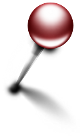
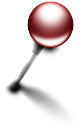
Final graph: added user marker on highlight spot

diff --git a/vsq/static/js/risposteUtente.js b/vsq/static/js/risposteUtente.js
@@ -26,6 +26,14 @@ var graph_width = 480,
 
 var max_outputx,min_outputx, max_outputy,min_outputy,max_label_len=0;
 
+//dimensioni del marker utente
+var user_marker_w, user_marker_h;
+user_marker_h=user_marker_w=100;
+//delta x e y per posizionare il punteruolo del marker
+//esattamente sul punto highlight
+var user_marker_delta_x=30;
+var user_marker_delta_y=80;
+
 //fattore_scala_cerchi permette di scalare i cerchi concentrici
 //sullo sfondo del grafico
 var fattore_scala_cerchi=0.29;
@@ -41,26 +49,6 @@ var circles_colors=["f3f9f7","e9f3f0","e0ede8","d6e8e0","cee3d9","c5ddd4","bed8c
 var connection_lines;
 
 function draw_graph(coordinate, highlight, marker){
-
-//DATA TYPE
-
-
-//var coordinate = [
-//  ["fare", "0.20140604", "0.48035801"],
-//  ["ld", "0.05905490", "0.60488166"],
-
-//
-//  var partiti = {
-//
-//'ds': {
-//    'name': "Destra sociale",
-//        'url': "/lista/destra-sociale/",
-//        'coalizione': "destra",
-//        'colore': "#333333",
-//        'sigla': "ds",
-//        'simbolo_url': "/media/simboli/3.gif"
-////},
-//
 
     var label_array = new Array();
     var val_array=[];
@@ -190,12 +178,26 @@ function draw_graph(coordinate, highlight, marker){
             attr("class","connection-line");
 
 
-
         if(marker){
-            //determina il verso del marker a seconda della posizione
+            //TODO: determina il verso del marker a seconda della posizione
             // rispetto ai bordi del grafico
+
+
             //aggiunge il marker sul punto di interesse
-            ;
+            //calcolando il punto secondo i delta x e y che spostano l'immagine
+            //per far coincidere il punteruolo con il punto highlight
+            var user_marker_x, user_marker_y;
+            user_marker_x = x(highlight_x)-user_marker_delta_x;
+            user_marker_y = y(highlight_x)-user_marker_delta_y;
+
+            vis.append("svg:image")
+                .attr("xlink:href", "/static/img/grafico/user_marker.png")
+                .attr("x",user_marker_x)
+                .attr("y",user_marker_y)
+                .attr("width", user_marker_w)
+                .attr("height", user_marker_h);
+
+
         }
     }
 
